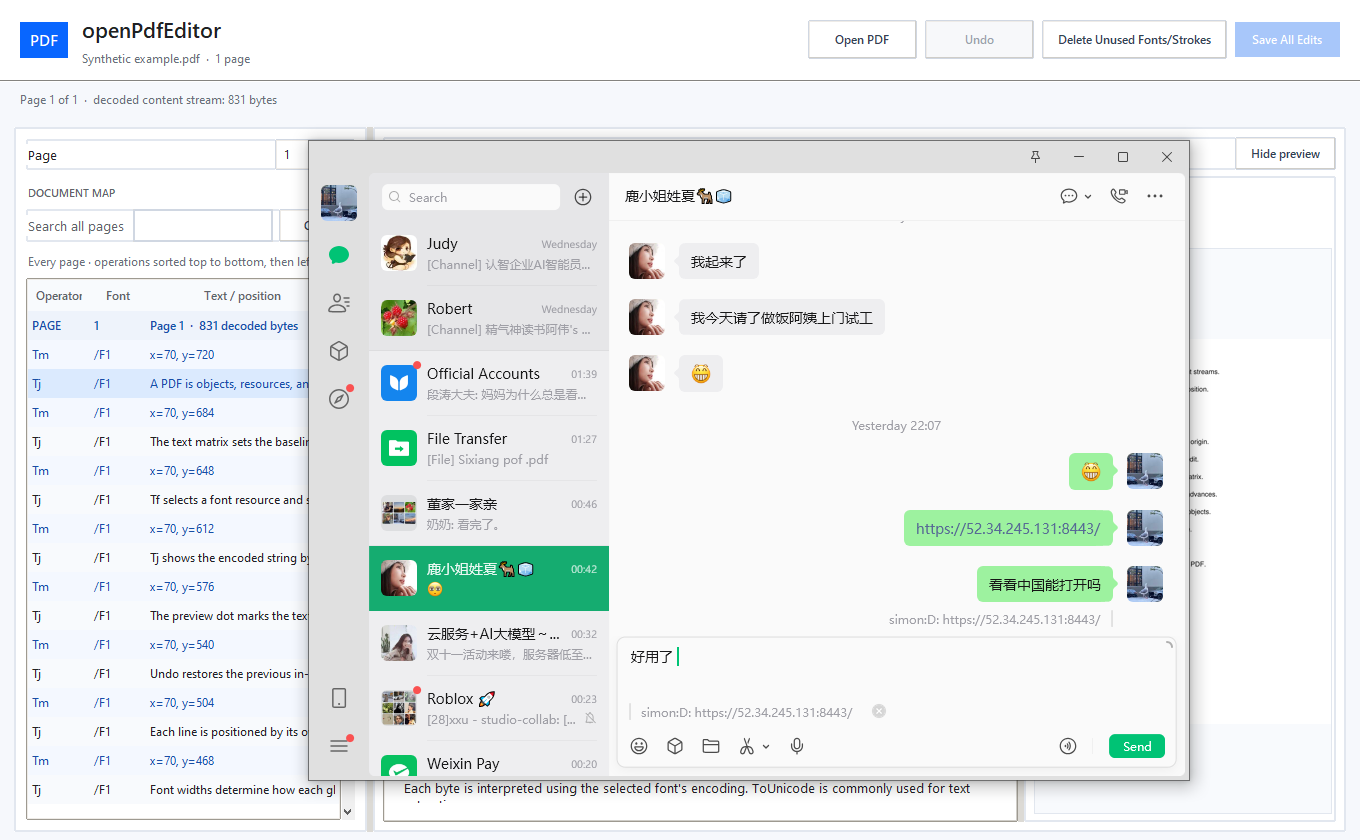
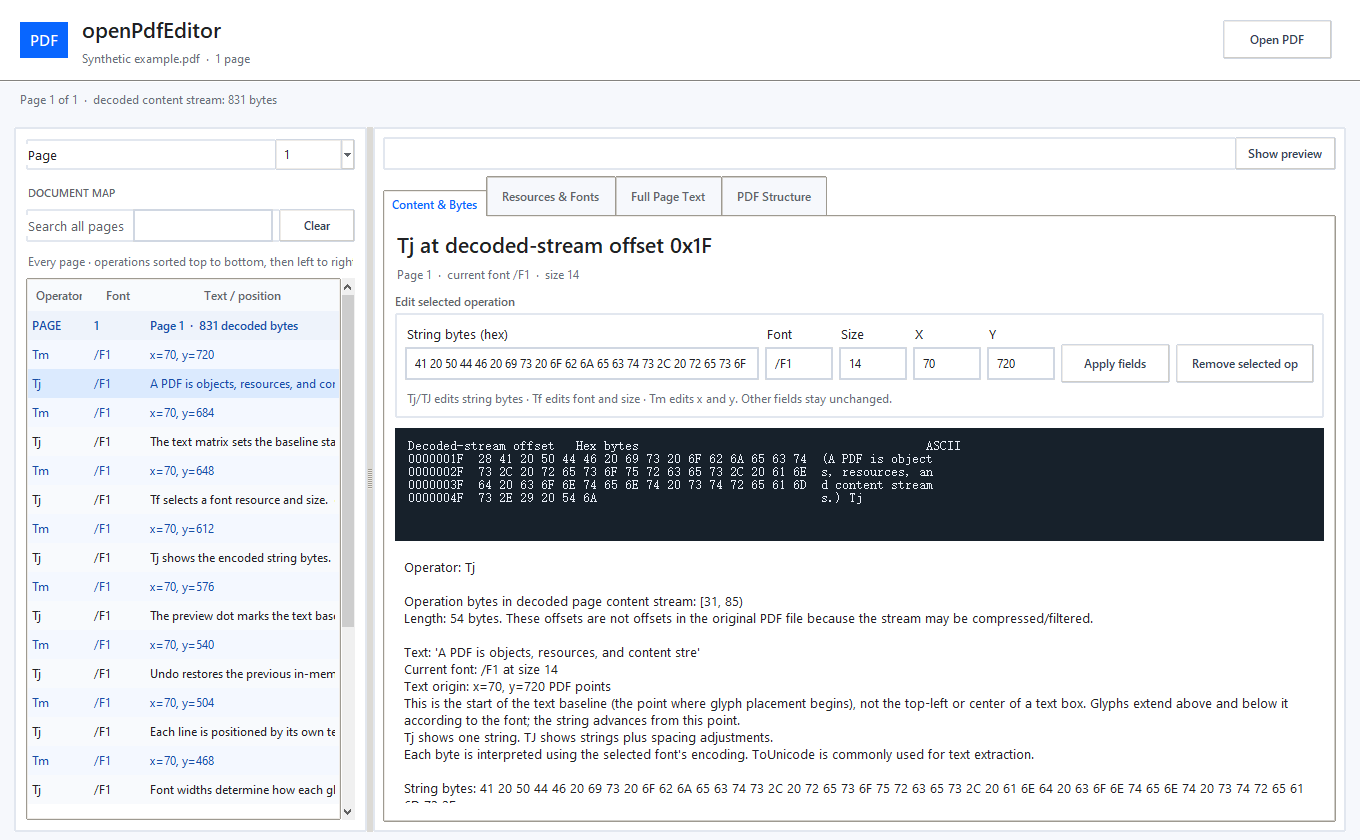
Polish public release and Windows packaging

diff --git a/tools/capture_readme_screenshots.py b/tools/capture_readme_screenshots.py
@@ -61,6 +61,9 @@ def make_sample_pdf(destination: Path) -> None:
 
 
 def capture(app: pdf_explorer.PdfExplorer, name: str) -> None:
+    app.deiconify()
+    app.lift()
+    app.attributes("-topmost", True)
     app.update_idletasks()
     app.update()
     time.sleep(0.25)
@@ -69,6 +72,7 @@ def capture(app: pdf_explorer.PdfExplorer, name: str) -> None:
     width = app.winfo_width()
     height = app.winfo_height()
     ImageGrab.grab(bbox=(x, y, x + width, y + height)).save(IMAGE_DIR / name, optimize=True)
+    app.attributes("-topmost", False)
 
 
 def main() -> None:
@@ -96,12 +100,18 @@ def main() -> None:
         app.save_button.state(["disabled"])
 
         text_operation = next(index for index, op in enumerate(app.operations) if op["operator"] == "Tj")
-        app.ops_tree.selection_set(app._operation_id(0, text_operation))
-        app.ops_tree.focus(app._operation_id(0, text_operation))
+        matrix_operation = next(index for index, op in enumerate(app.operations) if op["operator"] == "Tm")
+        app.ops_tree.selection_set(app._operation_id(0, matrix_operation))
+        app.ops_tree.focus(app._operation_id(0, matrix_operation))
         app.select_operation()
         app.tabs.select(app.content_tab)
         capture(app, "operation-map.png")
+        app.ops_tree.selection_set(app._operation_id(0, text_operation))
+        app.ops_tree.focus(app._operation_id(0, text_operation))
+        app.select_operation()
+        app.toggle_preview()
         capture(app, "decoded-bytes.png")
+        app.toggle_preview()
         app.tabs.select(app.resources_tab)
         app.font_combo.set("/F1")
         app.render_font("/F1")

diff --git a/pdf_explorer.py b/pdf_explorer.py
@@ -568,6 +568,9 @@ class PdfExplorer(tk.Tk):
         self.save_button = ttk.Button(actions, text="Save All Edits", style="Accent.TButton", command=self.save_edited_copy)
         self.save_button.pack(side="left")
         self.save_button.state(["disabled"])
+        self.undo_button.pack_forget()
+        self.unused_button.pack_forget()
+        self.save_button.pack_forget()
 
         body = ttk.Panedwindow(self, orient="horizontal")
         body.pack(fill="both", expand=True, padx=14, pady=(10, 8))
@@ -734,6 +737,9 @@ class PdfExplorer(tk.Tk):
             self.undo_stack = []
             self.unsaved_edits = False
             self._clear_preview()
+            self.undo_button.pack(side="left", padx=(0, 8))
+            self.unused_button.pack(side="left", padx=(0, 8))
+            self.save_button.pack(side="left")
             self.unused_button.state(["!disabled"])
             self.undo_button.state(["disabled"])
             self.save_button.state(["disabled"])
